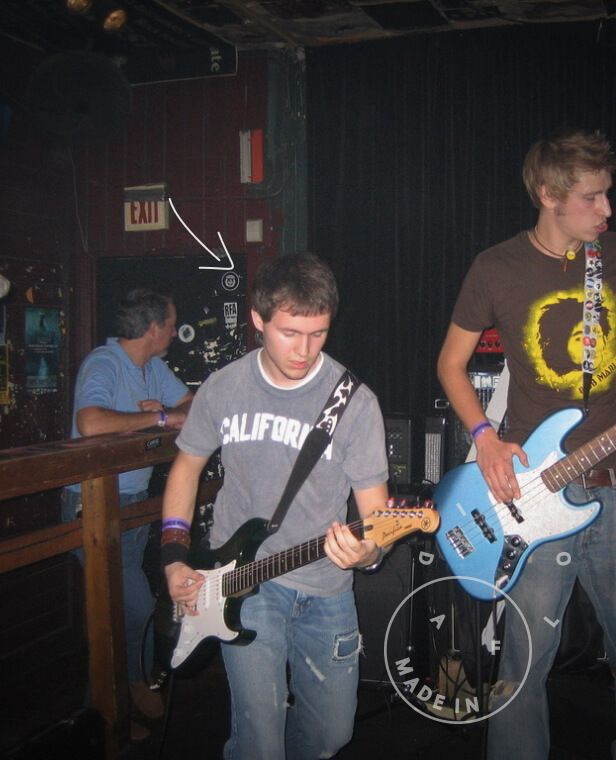
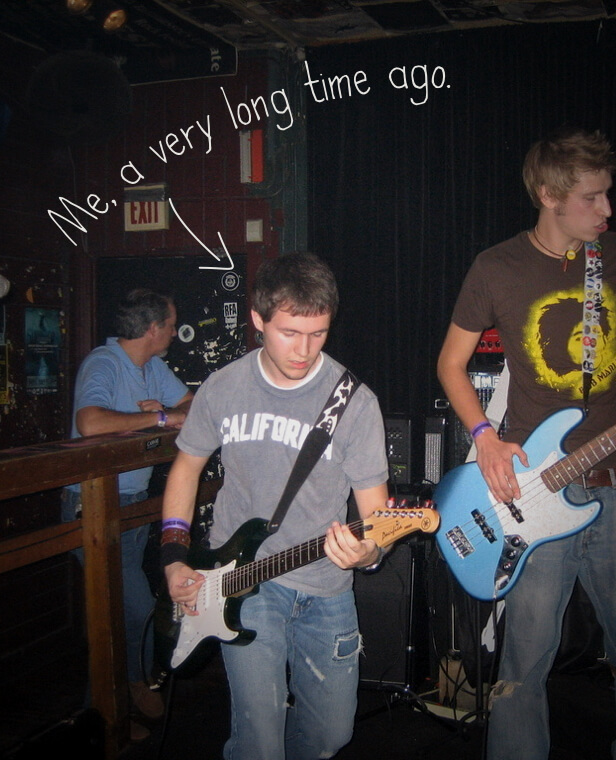
all content entered

diff --git a/src/components/slides/music.tsx b/src/components/slides/music.tsx
@@ -1,0 +1,37 @@
+import React, { memo } from 'react'
+
+import imgUrl from '@/images/band.jpg'
+import FeaturedImage from '@/components/featured-image'
+import { slide, slideText, slideImg } from './styles.scss'
+
+const Music = memo(() => {
+  return (
+    <div className={slide}>
+      <div className={slideText}>
+        <h2>Music of all kinds</h2>
+        <p>
+          Once upon a time I was in a band. We played a “unique” combination
+          of Reggae-inspired, late ‘90s Hard Rock and early ‘00s Pop Punk.
+          But these days I’m into more than just heavy guitars. Though there’s
+          still a heavy dose of Power Metal in my Spotify playlists, there’s
+          also a good bit of EDM, Kentucky Blugrass, and international Folk in
+          there, just for good measure.
+        </p>
+        <p>
+          My days on the stage may be behind me (for now) but I still enjoy
+          relaxing with a guitar or poking around at an upbeat electronic track.
+          If I ever get a little more free time, maybe I’ll finally put out
+          that album…
+        </p>
+      </div>
+      <FeaturedImage
+        className={slideImg}
+        src={imgUrl}
+        alt="me playing a guitar"
+        showBrand
+      />
+    </div>
+  )
+})
+
+export default Music

diff --git a/src/components/slides/myths.tsx b/src/components/slides/myths.tsx
@@ -1,0 +1,36 @@
+import React, { memo } from 'react'
+
+import imgUrl from '@/images/books.jpg'
+import FeaturedImage from '@/components/featured-image'
+import { slide, slideText, slideImg } from './styles.scss'
+
+const Myths = memo(() => {
+  return (
+    <div className={slide}>
+      <div className={slideText}>
+        <h2>Northern mythology</h2>
+        <p>
+          It’s more than just vikings and Ragnarok! Norse mythology is part
+          of a larger category of ancient, Indo-European belief shared by
+          linguistically-related groups that have a common origin in ancient
+          Northern Europe. It’s there, at that broader level, where my
+          interests really lie.
+        </p>
+        <p>
+          Studying “northern mythology” has led me down a long rabbit hole
+          of books and research papers. Ask me about Thor’s hammer and I’ll
+          probably end up telling you about stone-age axes and British,
+          Migration-Era pendants. I may not be credentialed, but I’d like
+          to think I can hold my own, maybe even with some of the pros!
+        </p>
+      </div>
+      <FeaturedImage
+        className={slideImg}
+        src={imgUrl}
+        alt="books on my shelf"
+      />
+    </div>
+  )
+})
+
+export default Myths

diff --git a/src/components/slides/code.tsx b/src/components/slides/code.tsx
@@ -1,0 +1,37 @@
+import React, { memo } from 'react'
+
+import imgUrl from '@/images/code.jpg'
+import FeaturedImage from '@/components/featured-image'
+import { slide, slideText, slideImg } from './styles.scss'
+
+const Code = memo(() => {
+  return (
+    <div className={slide}>
+      <div className={slideText}>
+        <h2>Clean, simple code</h2>
+        <p>
+          I don’t like overengineering and I don’t like bandaids
+          building up over time. Of course, I always try to empathize
+          with the engineers that came before me. And blame is often
+          useless when when we can solve problems instead. So when I
+          run into messes in the code, it’s almost impossible for me
+          to not start cleaning up.
+        </p>
+        <p>
+          Some of my favorite accomplishments involve creating and
+          implementing strategies to address technical debt on an ongoing
+          basis. Don’t get me wrong, I love building new features just as
+          well. But lets find a way to keep our apps healthy while still
+          giving users what they want!
+        </p>
+      </div>
+      <FeaturedImage
+        className={slideImg}
+        src={imgUrl}
+        alt="a code diff"
+      />
+    </div>
+  )
+})
+
+export default Code

diff --git a/src/components/slides/paint.tsx b/src/components/slides/paint.tsx
@@ -1,0 +1,35 @@
+import React, { memo } from 'react'
+
+import imgUrl from '@/images/paintings.jpg'
+import FeaturedImage from '@/components/featured-image'
+import { slide, slideText, slideImg } from './styles.scss'
+
+const Paint = memo(() => {
+  return (
+    <div className={slide}>
+      <div className={slideText}>
+        <h2>Watercolor paintings</h2>
+        <p>
+          I wasn’t always a painter. In fact I probably still don’t qualify
+          as a real artist. But I’ve always loved the look of watercolor. So
+          when we all got our mandatory “stay-at-home vacations” back in 2020,
+          I figured I’d give it a shot.
+        </p>
+        <p>
+          The first thing I learned is that paintings are very different from
+          UI design and I will probably be an amateur for a long time to come.
+          A lot of my work is still based on tutorials, and I haven’t exactly
+          become one with the brush yet. But I’m progressing and that’s what
+          matters. Maybe you’ll see me at an exhibition some day!
+        </p>
+      </div>
+      <FeaturedImage
+        className={slideImg}
+        src={imgUrl}
+        alt="a collage of my paintings"
+      />
+    </div>
+  )
+})
+
+export default Paint

diff --git a/src/components/slides/useCurrentSlide.ts b/src/components/slides/useCurrentSlide.ts
@@ -1,0 +1,42 @@
+import type { SliderStateValue } from '@/features/slider/types'
+
+import React, { useEffect, useState } from 'react'
+import { useSelector } from 'react-redux'
+import useTimer from '@/hooks/useTimer'
+import { getSliderValue } from '@/features/slider/selectors'
+
+import Code from './code'
+import Paint from './paint'
+import Myths from './myths'
+import Music from './music'
+
+const slideMap: Record<SliderStateValue, React.ExoticComponent> = {
+  code: Code,
+  paint: Paint,
+  myths: Myths,
+  music: Music,
+}
+
+const useCurrentSlide = () => {
+  const sliderValue = useSelector(getSliderValue)
+  const { setTimer, clearTimer } = useTimer()
+  const [isUpdating, setIsUpdating] = useState(false)
+  const [localValue, setLocalValue] = useState<SliderStateValue>(sliderValue)
+
+  useEffect(() => {
+    setIsUpdating(true)
+
+    setTimer(() => {
+      setIsUpdating(false)
+      setLocalValue(sliderValue)
+    }, 300)
+
+    return () => {
+      clearTimer()
+    }
+  }, [clearTimer, setTimer, sliderValue])
+
+  return { CurrentSlide: slideMap[localValue], isUpdating }
+}
+
+export default useCurrentSlide

diff --git a/src/components/featured-image/index.tsx b/src/components/featured-image/index.tsx
@@ -1,10 +1,17 @@
 import React, { memo } from 'react'
+import cx from 'classnames'
 
 import brandUrl from '@/images/made-in-florida.svg'
-import { featuredImageWrapper, featuredImage, featuredImageInner, brandMark } from './styles.scss'
+import {
+  featuredImageWrapper,
+  featuredImage,
+  featuredImageInner,
+  brandMark,
+} from './styles.scss'
 
 interface FeaturedImageProps {
   alt: string
+  className?: string
   showBrand?: boolean
   src: string
 }
@@ -12,11 +19,12 @@ interface FeaturedImageProps {
 // TODO: Implement lazy loading of images with cool spinner
 const FeaturedImage = memo(({
   alt,
+  className = '',
   showBrand = false,
   src,
 }: FeaturedImageProps) => {
   return (
-    <div className={featuredImageWrapper}>
+    <div className={cx(featuredImageWrapper, { [className]: !!className })}>
       <div className={featuredImageInner}>
         <img className={featuredImage} src={src} alt={alt} />
         {showBrand && <img className={brandMark} src={brandUrl} aria-hidden />}

diff --git a/src/components/pages/things-i-love/index.tsx b/src/components/pages/things-i-love/index.tsx
@@ -2,14 +2,22 @@ import React, { memo } from 'react'
 
 import PageWrapper from '@/components/pages/page-wrapper'
 import SlideNav from '@/components/slide-nav'
+import Slides from '@/components/slides'
+
+import { slideContainer, slideNavWrapper, slidesWrapper } from './styles.scss'
 
 const ThingsILove = memo(() => {
   return (
     <PageWrapper columns={1}>
       <div>
         <h1>Things I love</h1>
-        <div>
-          <SlideNav />
+        <div className={slideContainer}>
+          <div className={slideNavWrapper}>
+            <SlideNav />
+          </div>
+          <div className={slidesWrapper}>
+            <Slides />
+          </div>
         </div>
       </div>
     </PageWrapper>

diff --git a/src/components/slides/styles.scss b/src/components/slides/styles.scss
@@ -1,0 +1,33 @@
+@import '@/globals';
+
+.slides {
+  transition: all .3s ease;
+  opacity: 1;
+
+  &.updating {
+    opacity: 0;
+  }
+}
+
+.slide {
+  display: flex;
+  justify-content: space-between;
+  align-items: flex-start;
+}
+
+.slideText {
+  @include largesize {
+    width: 55%;
+  }
+
+  h2 {
+    margin-top: 0;
+    line-height: 1;
+  }
+}
+
+.slideImg {
+  @include largesize {
+    width: 40%;
+  }
+}

diff --git a/src/components/slides/index.tsx b/src/components/slides/index.tsx
@@ -1,0 +1,17 @@
+import React, { memo } from 'react'
+import cx from 'classnames'
+
+import useCurrentSlide from './useCurrentSlide'
+import { slides, updating } from './styles.scss'
+
+const Slides = memo(() => {
+  const { CurrentSlide, isUpdating } = useCurrentSlide()
+
+  return (
+    <div className={cx(slides, { [updating]: isUpdating })}>
+      <CurrentSlide />
+    </div>
+  )
+})
+
+export default Slides

diff --git a/src/components/pages/what-i-do/styles.scss b/src/components/pages/what-i-do/styles.scss
@@ -26,4 +26,25 @@
   & > * {
     vertical-align: middle;
   }
+
+  span {
+    position: relative;
+    padding: .25em 0;
+  }
+
+  span::after {
+    content: '';
+    display: block;
+    position: absolute;
+    bottom: 0;
+    left: 0;
+    width: 0;
+    height: 2px;
+    background: $link-underline-color;
+    transition: all .3s ease;
+  }
+
+  &:hover span::after {
+    width: 100%;
+  }
 }

diff --git a/src/components/slide-nav/styles.scss b/src/components/slide-nav/styles.scss
@@ -26,6 +26,7 @@
     background: $box-highlight-primary;
     border-color: $graphic-color;
     box-shadow: $base-shadow;
+    transform: scale(1.05);
   }
 
   &.active {
@@ -35,6 +36,7 @@
       border-color: transparent;
       box-shadow: none;
       cursor: default;
+      transform: scale(1);
     }
   }
 }

diff --git a/src/components/pages/things-i-love/styles.scss b/src/components/pages/things-i-love/styles.scss
@@ -1,1 +1,20 @@
 @import '@/globals';
+
+.slideContainer {
+  display: flex;
+  justify-content: space-between;
+  align-items: flex-start;
+  padding-top: 1.5rem;
+}
+
+.slideNavWrapper {
+  @include largesize {
+    width: 32%;
+  }
+}
+
+.slidesWrapper {
+  @include largesize {
+    width: 65%;
+  }
+}
